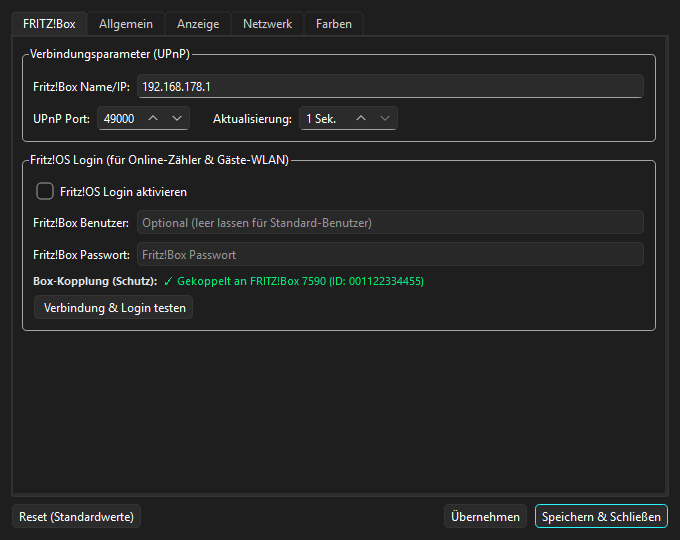
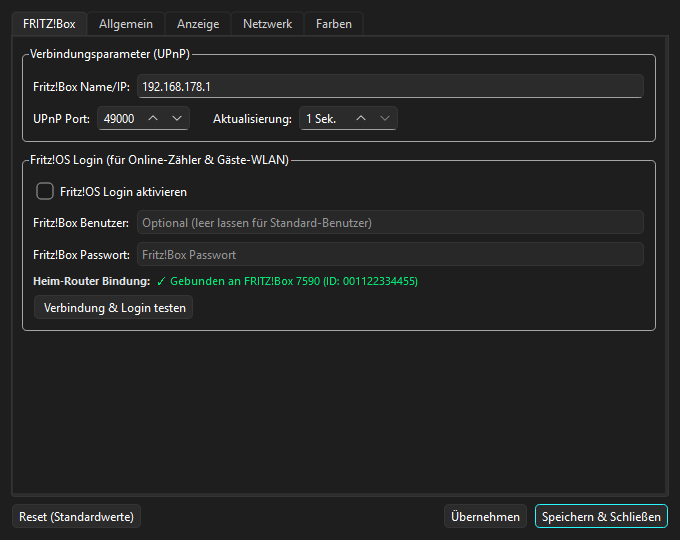
feat: rename box binding to Heim-Router Bindung with explanatory tooltip

Changed region(s): [[0.0309, 0.5037, 0.6176, 0.5333]]

diff --git a/src/ui/settings_dlg.py b/src/ui/settings_dlg.py
@@ -421,8 +421,15 @@ class SettingsDialog(QDialog):
         self.lbl_test_result.setVisible(False)
 
         box_label_row = QHBoxLayout()
-        lbl_box_title = QLabel("Box-Kopplung (Schutz):")
+        lbl_box_title = QLabel("Heim-Router Bindung:")
         lbl_box_title.setStyleSheet("font-weight: bold; color: #E0E4E8; font-size: 8.5pt;")
+        tooltip_binding = (
+            "Schützt dein Passwort: Das Widget sendet Zugangsdaten ausschließlich an deinen "
+            "persönlichen Heim-Router. In fremden WLAN-Netzen (z. B. Büro, Hotel) wird der Login "
+            "automatisch blockiert."
+        )
+        lbl_box_title.setToolTip(tooltip_binding)
+        self.lbl_bound_box.setToolTip(tooltip_binding)
         box_label_row.addWidget(lbl_box_title)
         box_label_row.addWidget(self.lbl_bound_box, 1)
 
@@ -806,7 +813,7 @@ class SettingsDialog(QDialog):
                         self.config.bound_box_name = upnp_client.box_name
                         short_id = upnp_client.box_udn.split("-")[-1]
                         box_name = upnp_client.box_name or "FRITZ!Box"
-                        self.lbl_bound_box.setText(f"✓ Gekoppelt an {box_name} (ID: {short_id})")
+                        self.lbl_bound_box.setText(f"✓ Gebunden an {box_name} (ID: {short_id})")
                         self.lbl_bound_box.setStyleSheet("color: #00E676; font-size: 8.5pt;")
                     self.lbl_test_result.setText(f"✓ {msg}")
                     self.lbl_test_result.setStyleSheet("color: #00E5FF; font-weight: bold; font-size: 8.5pt;")
@@ -880,10 +887,10 @@ class SettingsDialog(QDialog):
         if self.config.bound_box_udn:
             short_id = self.config.bound_box_udn.split("-")[-1]
             box_label = self.config.bound_box_name or "FRITZ!Box"
-            self.lbl_bound_box.setText(f"✓ Gekoppelt an {box_label} (ID: {short_id})")
+            self.lbl_bound_box.setText(f"✓ Gebunden an {box_label} (ID: {short_id})")
             self.lbl_bound_box.setStyleSheet("color: #00E676; font-size: 8.5pt;")
         else:
-            self.lbl_bound_box.setText("Nicht gekoppelt (wird beim ersten Login automatisch an die Box gebunden)")
+            self.lbl_bound_box.setText("Nicht gebunden (wird beim ersten Login automatisch an diesen Heim-Router gebunden)")
             self.lbl_bound_box.setStyleSheet("color: #8E9297; font-size: 8.5pt;")
 
     def _apply_changes(self) -> None:
@@ -999,7 +1006,7 @@ class SettingsDialog(QDialog):
             self.chk_guest.setChecked(defaults.enable_guest_monitor)
             self.txt_user.setText(defaults.fritz_username)
             self.txt_pass.setText(defaults.fritz_password)
-            self.lbl_bound_box.setText("Nicht gekoppelt (wird beim ersten Login automatisch an die Box gebunden)")
+            self.lbl_bound_box.setText("Nicht gebunden (wird beim ersten Login automatisch an diesen Heim-Router gebunden)")
             self.lbl_bound_box.setStyleSheet("color: #8E9297; font-size: 8.5pt;")
             self.lbl_test_result.setVisible(False)
         elif tab_idx == 1:  # Allgemein
